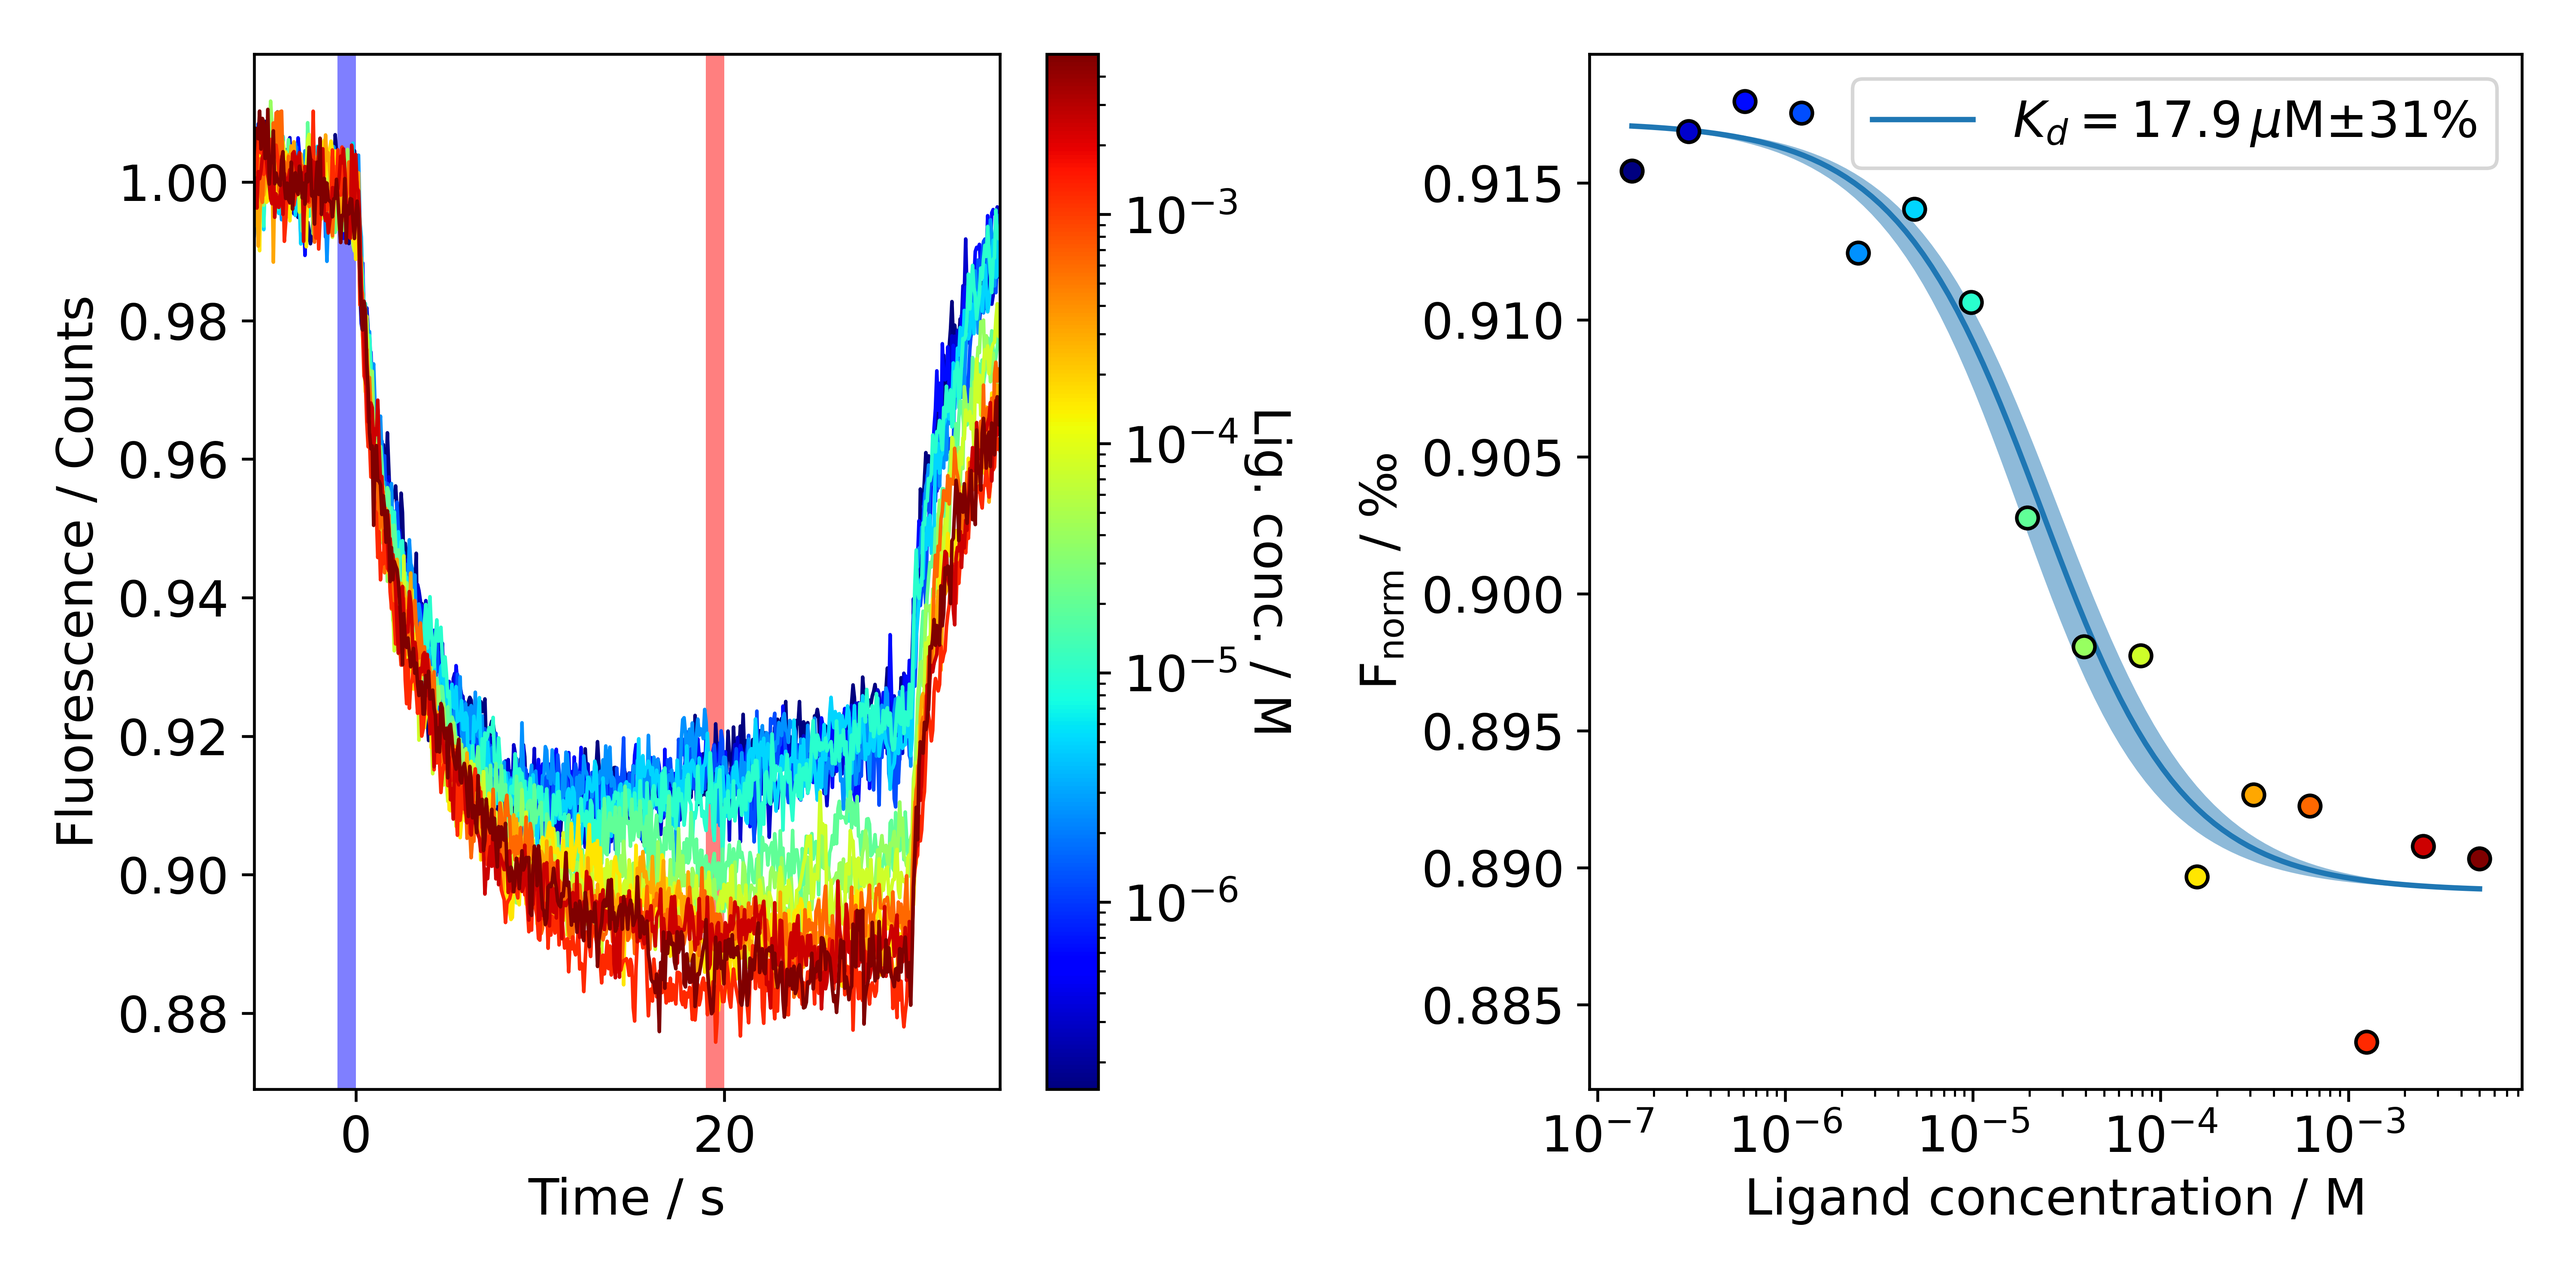
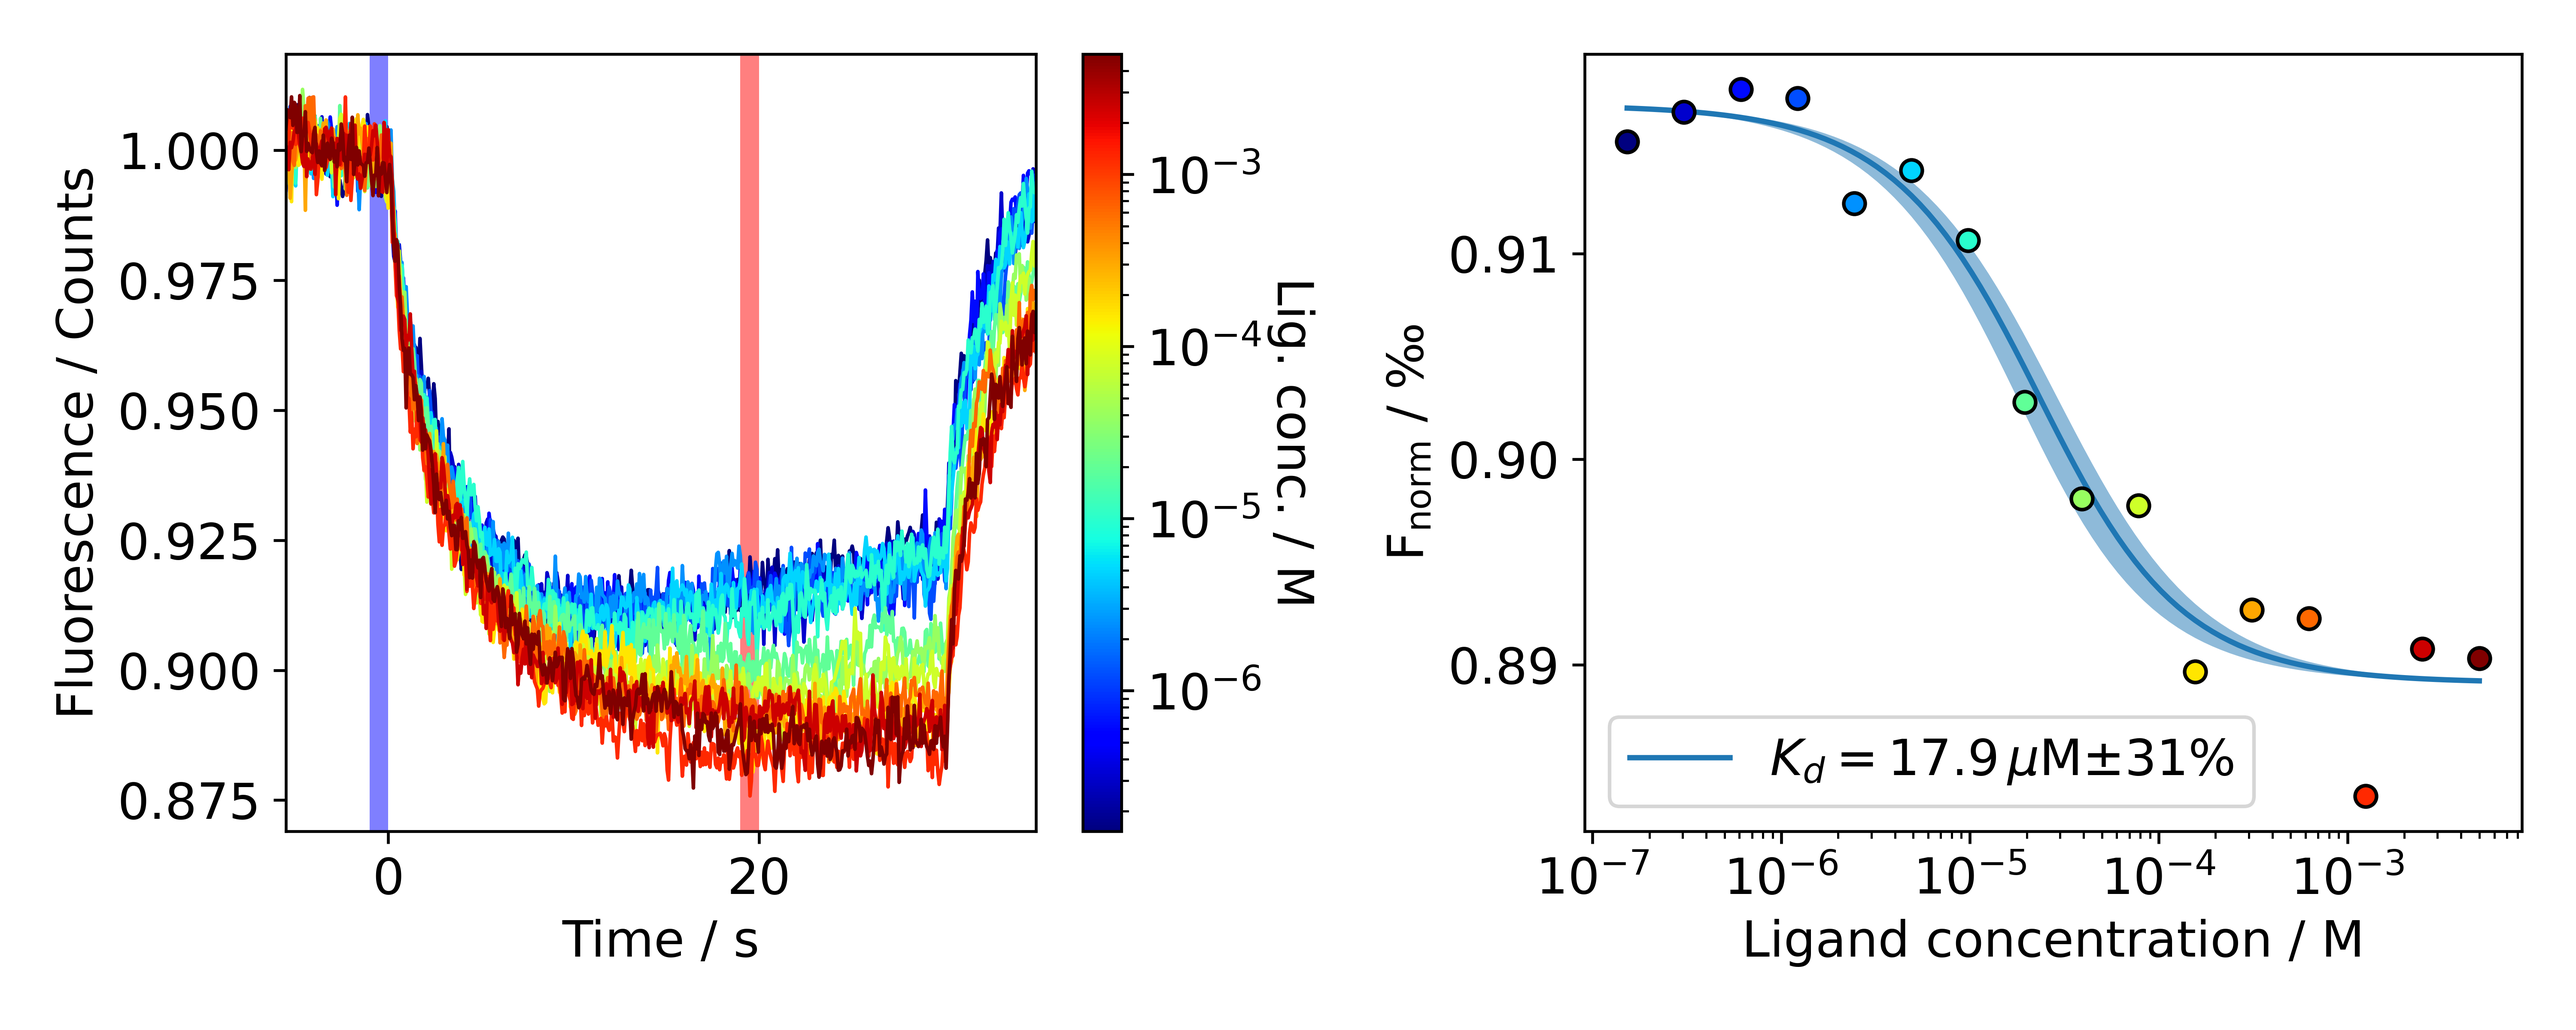
MST: changed size of plot

diff --git a/MST_data.py b/MST_data.py
@@ -28,7 +28,7 @@ class MST_data():
         # Get concentrations and locations
         lig_pos_ver = np.argwhere(np.array(dat.iloc[:,0]) == 'Ligand Concentration:')[0,0] 
         lig_pos_hor = np.argwhere(np.array(dat.iloc[lig_pos_ver,:]) == 'Ligand Concentration:').squeeze() +1
-        self.concs = np.array(dat.iloc[lig_pos_ver, lig_pos_hor]).astype(np.float32) * 1E-9
+        self.concs = np.array(dat.iloc[lig_pos_ver, lig_pos_hor]).astype(np.float32) * 1E-6
         # Get ligand name
         lig_pos_ver = np.argwhere(np.array(dat.iloc[:,0]) == 'Ligand:')[0,0] 
         lig_pos_hor = np.argwhere(np.array(dat.iloc[lig_pos_ver,:]) == 'Ligand:').squeeze() +1
@@ -195,7 +195,7 @@ class MST_data():
             ax.legend()
             ax.set_ylabel('F$_\mathrm{norm,bl}$ / Counts' )
         else:
-            ax.set_title('MST analysis')
+            ax.set_title('MST analysis (after normalisation)')
             self.plot_colored(ax, self.concs, fnorm, self.concs)
             if (len(fit_fnorm) > 0 ):
                 if fit_fnorm_err[0] / fit_fnorm_opt[0] < 1:
@@ -219,7 +219,9 @@ class MST_data():
         # Plot tolerance area +- 20%
         F_mean = np.mean(f_init)
         ax.axhline(F_mean, linestyle='--', color='grey', zorder=-10)
-        ax.axhspan(.8*F_mean, 1.2*F_mean, facecolor='grey', alpha=.5, zorder=-20)
+        ax.axhline(.8*F_mean, linestyle='--', color='grey', zorder=-10)
+        ax.axhline(1.2*F_mean, linestyle='--', color='grey', zorder=-10)
+        ax.axhspan(.8*F_mean, 1.2*F_mean, facecolor='grey', alpha=.3, zorder=-20)
         # # Plot bleach rate
         # ax = axs[1,1]
         # ax.set_title('Bleaching rate vs. ligand conc.')
@@ -248,7 +250,7 @@ class MST_data():
         print("Figure saves as %s" % self.fn.replace('.xlsx', '_mst_and_init_F.pdf'))
         fig.savefig(self.fn.replace('.xlsx', '_mst_and_init_F.png'))
         print("Figure saves as %s" % self.fn.replace('.xlsx', '_mst_and_init_F.png'))
-        return None
+        return fig, ax
 
     def fit_kd(self,concs, y, fix_pconc=False):
        # Chose fitting function
@@ -411,7 +413,7 @@ class MST_data():
     
     def plot(self, smooth=False, smooth_window=51, show_error=True):
         if hasattr(self, 'fnorm'):
-            fig, axs = plt.subplots(1,2, figsize=(10,5))
+            fig, axs = plt.subplots(1,2, figsize=(10,4))
             ## Plot outliers in gray
             #for out in self.outliers:
             #    ax.semilogx(self.concs[out], self.fnorm[out], 'o', color='gray')
@@ -535,5 +537,5 @@ class MST_data():
         else:
             fig.savefig(self.fn.replace('.xlsx', '_pconc_%.1EM.pdf' % self.pconc))
             fig.savefig(self.fn.replace('.xlsx', '_pconc_%.1EM.png' % self.pconc), dpi=600)
-        return None
+        return fig, ax 
 
